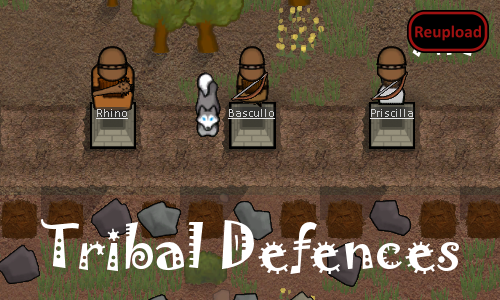
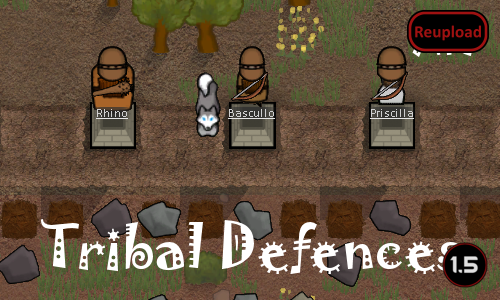
Mod updated for 1.5 and passed autotests

Changed region(s): [[0.87, 0.81, 0.99, 0.96]]

diff --git a/README.md b/README.md
@@ -45,11 +45,13 @@ http://steamcommunity.com/sharedfiles/filedetails/?id=928716116
 
 -  See if the the error persists if you just have this mod and its requirements active.
 -  If not, try adding your other mods until it happens again.
--  Post your error-log using https://steamcommunity.com/workshop/filedetails/?id=818773962]HugsLib and command Ctrl+F12
+-  Post your error-log using https://steamcommunity.com/workshop/filedetails/?id=818773962]HugsLib or the standalone https://steamcommunity.com/sharedfiles/filedetails/?id=2873415404]Uploader and command Ctrl+F12
 -  For best support, please use the Discord-channel for error-reporting.
 -  Do not report errors by making a discussion-thread, I get no notification of that.
 -  If you have the solution for a problem, please post it to the GitHub repository.
+-  Use https://github.com/RimSort/RimSort/releases/latest]RimSort to sort your mods
 
 
 
+https://steamcommunity.com/sharedfiles/filedetails/changelog/2573280930]![Image](https://img.shields.io/github/v/release/emipa606/TribalDefences?label=latest%20version&style=plastic&color=9f1111&labelColor=black)
 
